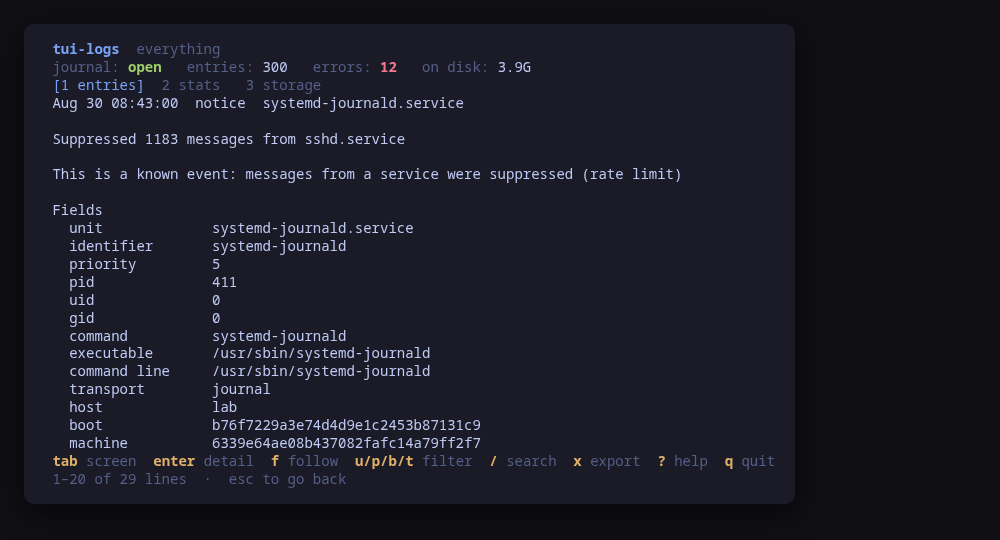
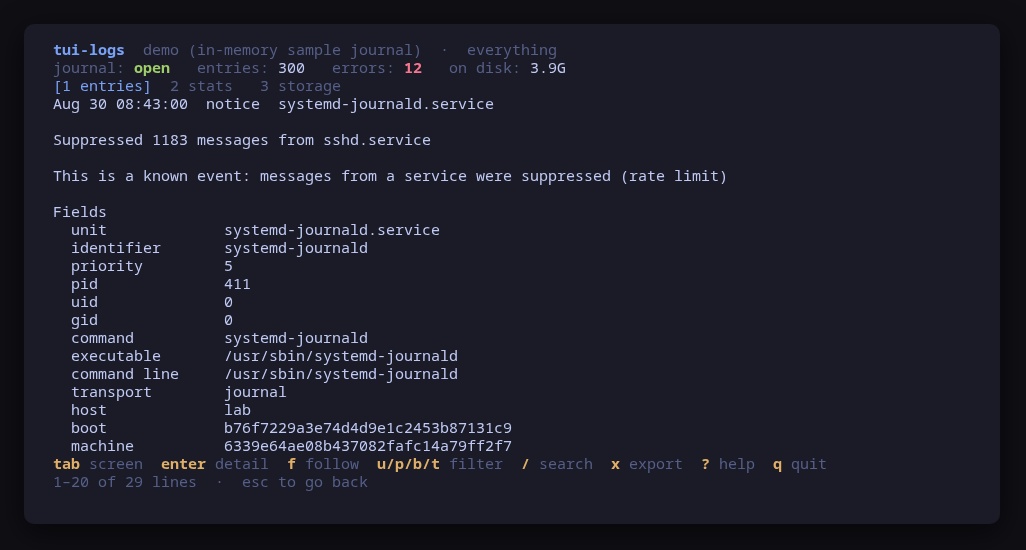
Take tui-kit v0.4.4: actions are bounded by MutationTimeout
Since tui-kit v0.4.1 Options.Timeout bounds reads only and a mutation
has no wall-clock limit unless the runner sets MutationTimeout. The
backend passed actionTimeout (15 min) through Timeout, so after the
bump that bound would silently disappear. The runners that execute
confirmed commands (journalctl, its escalated twin, the escalated
systemctl, install and its escalated twin) now set MutationTimeout to
the same 15 minutes: generous enough for --verify or a vacuum on a big
journal, and still an end for a hung child. Read timeouts are unchanged.

Also from the kit (the pin was v0.3.1): previews are shell-quoted
(`--grep 'invalid user'`, test updated), children run without a
controlling terminal, and status-line errors are cleaned of escape
codes. Screenshots are re-rendered with the kit's renderer and the
install section is rendered for 0.2.2.

Closes #17

Claude-Session: https://claude.ai/code/session_01MbCfX3T8khyd9hsrN5kMo3

diff --git a/internal/journald/backend.go b/internal/journald/backend.go
@@ -55,8 +55,11 @@ const installHint = "this tool needs systemd's journal; " +
 // gigabytes takes its time answering a query that has to walk it.
 const readTimeout = 45 * time.Second
 
-// actionTimeout bounds an action. `--verify` walks every file on disk, and on
-// a large journal that is minutes rather than seconds.
+// actionTimeout bounds an action, as the runners' MutationTimeout: the kit
+// leaves a mutation unbounded unless the runner sets one, and applies Timeout
+// to reads only. `--verify` walks every file on disk and a vacuum deletes
+// archives across it, and on a large journal both are minutes rather than
+// seconds, so the bound is generous; it is there so a hung child still ends.
 const actionTimeout = 15 * time.Minute
 
 // unprivileged is the address-of-false the runner options need.
@@ -128,6 +131,7 @@ func NewReal(sudoPrefix []string, caps compat.Caps) (*Real, error) {
 		Bin:             "journalctl",
 		SearchPaths:     searchPaths["journalctl"],
 		Timeout:         readTimeout,
+		MutationTimeout: actionTimeout,
 		PrivilegedReads: &unprivileged,
 		InstallHint:     installHint,
 	})
@@ -143,6 +147,7 @@ func NewReal(sudoPrefix []string, caps compat.Caps) (*Real, error) {
 		SearchPaths:     searchPaths["journalctl"],
 		SudoPrefix:      sudoPrefix,
 		Timeout:         actionTimeout,
+		MutationTimeout: actionTimeout,
 		PrivilegedReads: &privileged,
 	})
 	real.systemctl, _ = runner.New(runner.Options{
@@ -158,9 +163,10 @@ func NewReal(sudoPrefix []string, caps compat.Caps) (*Real, error) {
 		PrivilegedReads: &unprivileged,
 	})
 	real.install, _ = runner.New(runner.Options{
-		Bin:         "install",
-		SearchPaths: searchPaths["install"],
-		Timeout:     readTimeout,
+		Bin:             "install",
+		SearchPaths:     searchPaths["install"],
+		Timeout:         readTimeout,
+		MutationTimeout: actionTimeout,
 	})
 
 	// The two escalated twins the retention form needs. Its drop-in goes into
@@ -169,16 +175,18 @@ func NewReal(sudoPrefix []string, caps compat.Caps) (*Real, error) {
 	// machine with no usable `sudo -n` simply has no retention form, which
 	// the storage screen says where the key would have been.
 	real.installRoot, _ = runner.New(runner.Options{
-		Bin:         "install",
-		SearchPaths: searchPaths["install"],
-		SudoPrefix:  sudoPrefix,
-		Timeout:     readTimeout,
+		Bin:             "install",
+		SearchPaths:     searchPaths["install"],
+		SudoPrefix:      sudoPrefix,
+		Timeout:         readTimeout,
+		MutationTimeout: actionTimeout,
 	})
 	real.systemctlRoot, _ = runner.New(runner.Options{
-		Bin:         "systemctl",
-		SearchPaths: searchPaths["systemctl"],
-		SudoPrefix:  sudoPrefix,
-		Timeout:     actionTimeout,
+		Bin:             "systemctl",
+		SearchPaths:     searchPaths["systemctl"],
+		SudoPrefix:      sudoPrefix,
+		Timeout:         actionTimeout,
+		MutationTimeout: actionTimeout,
 	})
 	return real, nil
 }

diff --git a/cmd/tui-logs/app_test.go b/cmd/tui-logs/app_test.go
@@ -233,7 +233,7 @@ func TestSearchGoesToJournalctlNotToTheRowsOnScreen(t *testing.T) {
 	a, _ := newTestApp(t)
 	drain(t, a, press(a, "/"))
 	typeInto(t, a, "invalid user")
-	if !strings.Contains(a.model.Command.String(), "--grep invalid user") {
+	if !strings.Contains(a.model.Command.String(), "--grep 'invalid user'") {
 		t.Fatalf("command = %q, want --grep in it", a.model.Command)
 	}
 	if len(a.model.Entries) == 0 {

diff --git a/README.md b/README.md
@@ -129,7 +129,7 @@ Upgrades then arrive with the rest of your system updates.
 ### Any distribution, static binary
 
 ```sh
-curl -fsSL https://github.com/tui-tools/tui-logs/releases/download/v0.2.1/tui-logs_0.2.1_linux_amd64.tar.gz | tar -xz tui-logs
+curl -fsSL https://github.com/tui-tools/tui-logs/releases/download/v0.2.2/tui-logs_0.2.2_linux_amd64.tar.gz | tar -xz tui-logs
 sudo install -m0755 tui-logs /usr/local/bin/tui-logs
 ```
 
